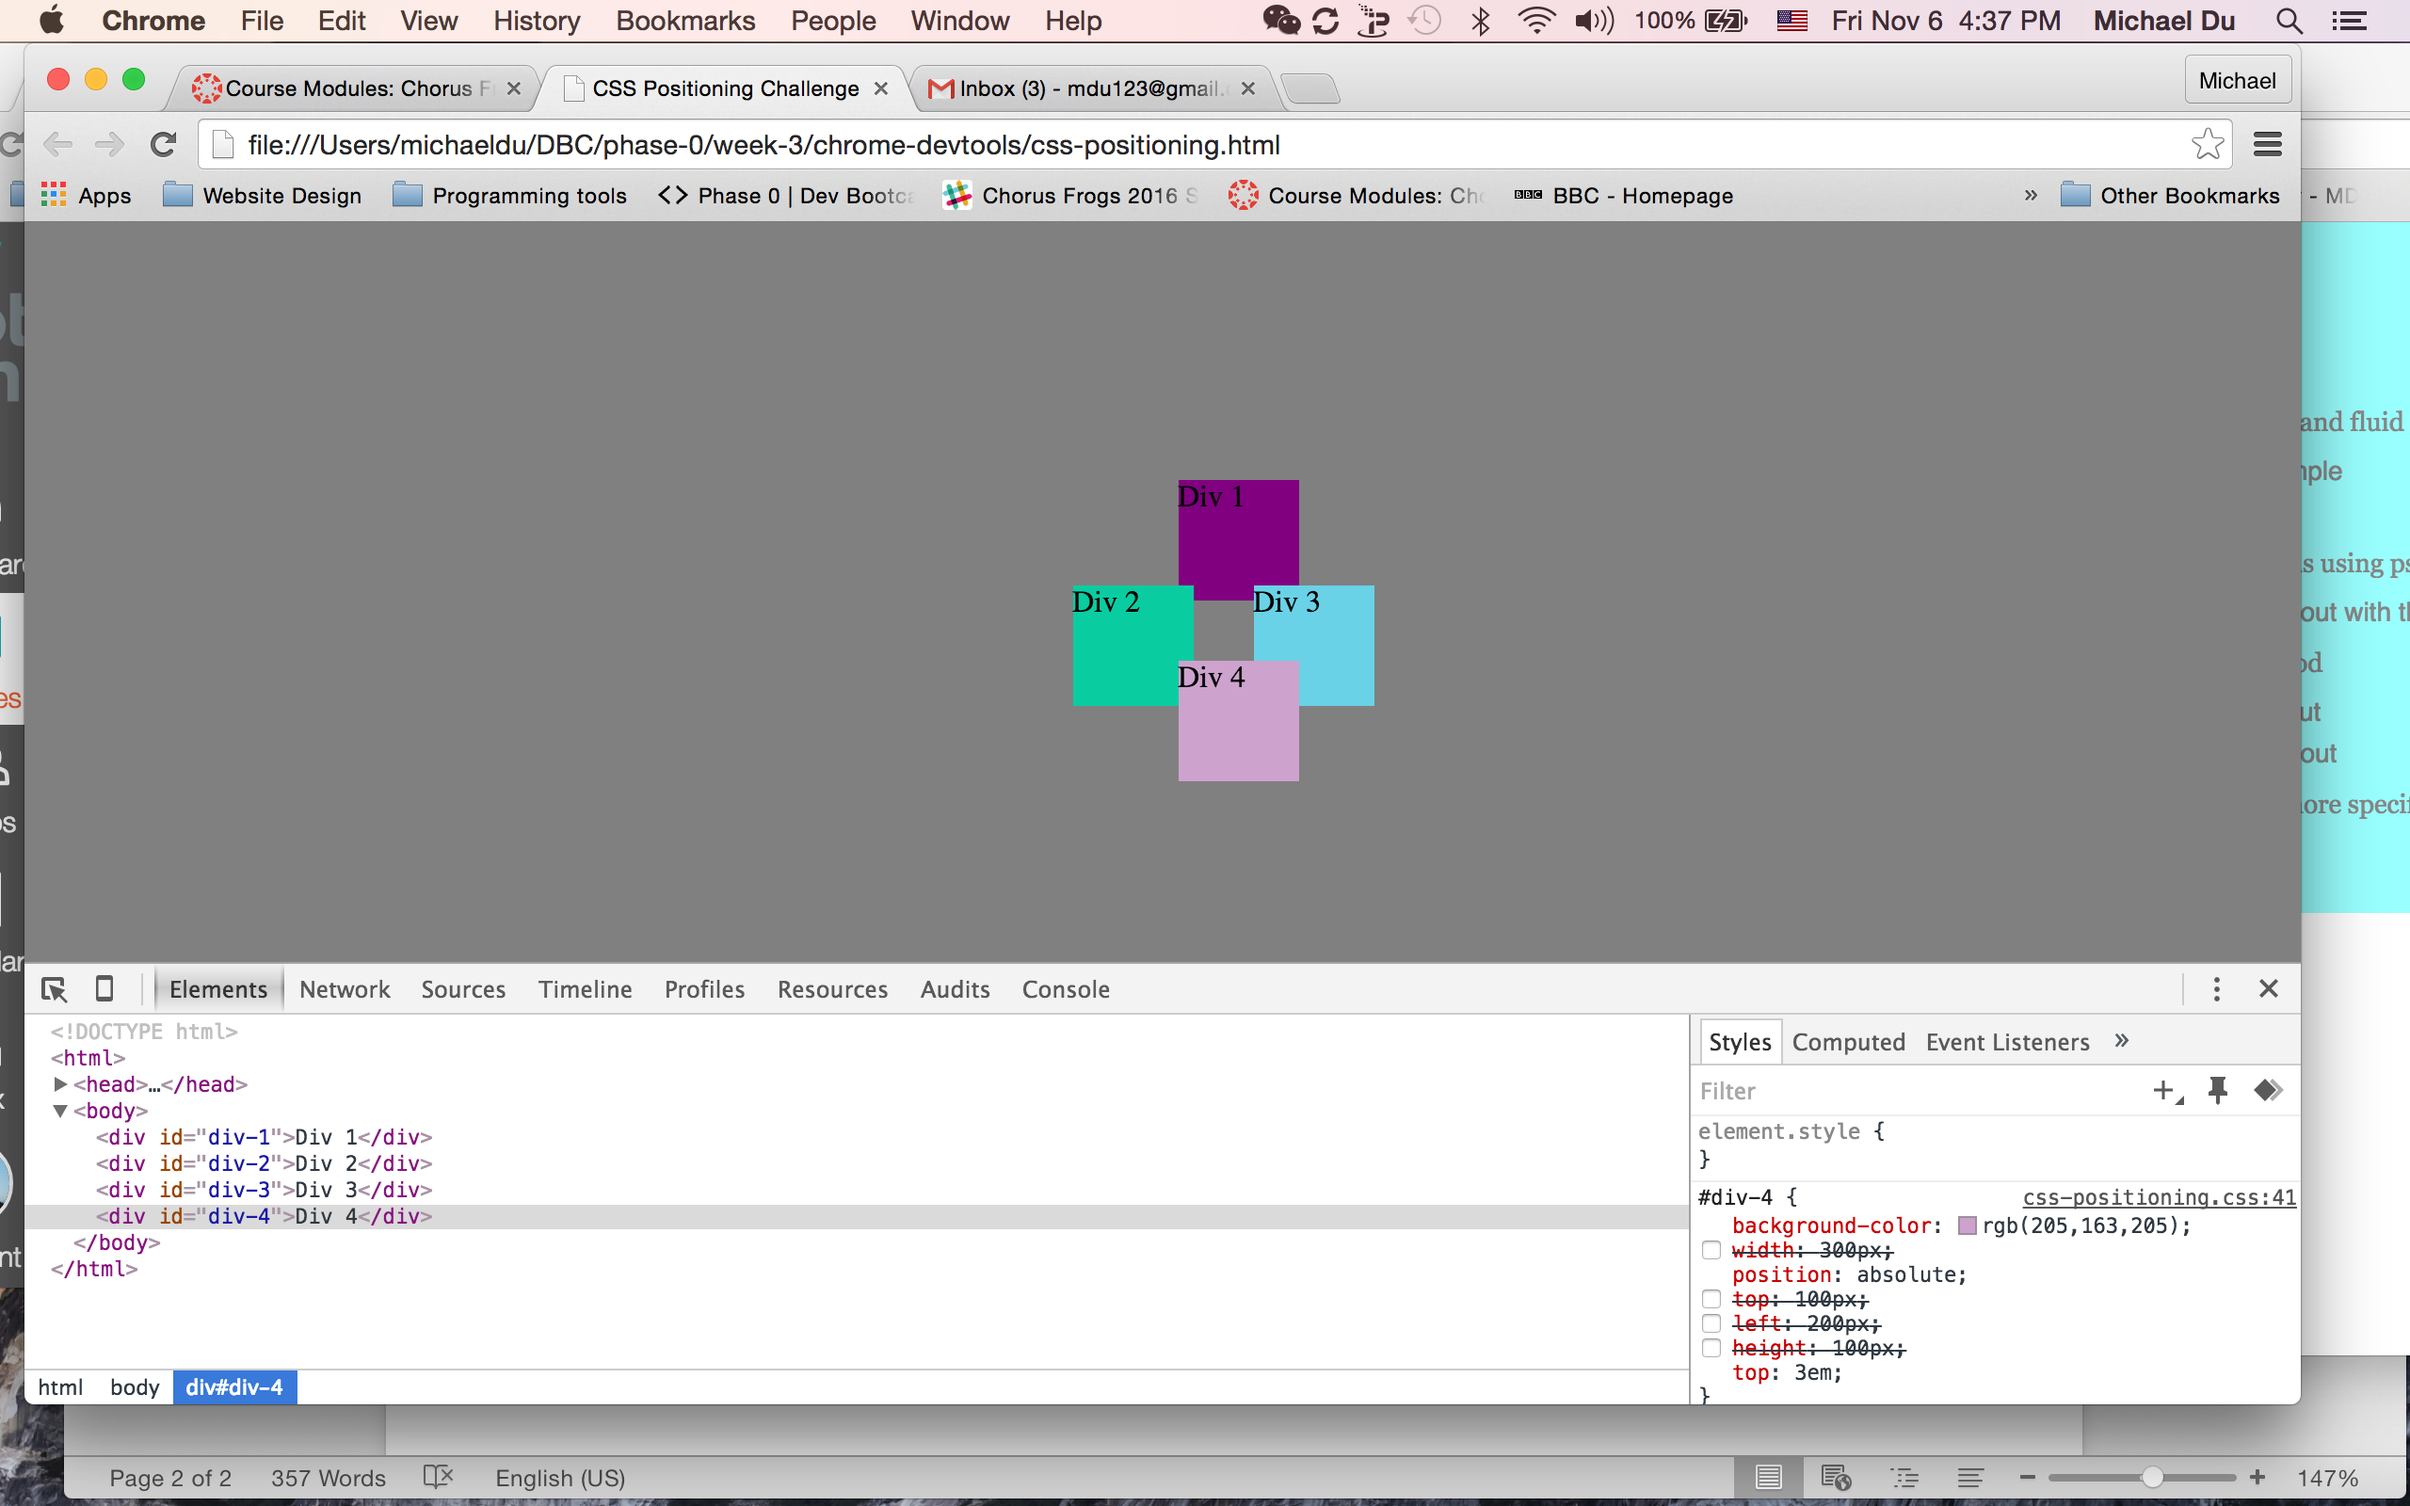
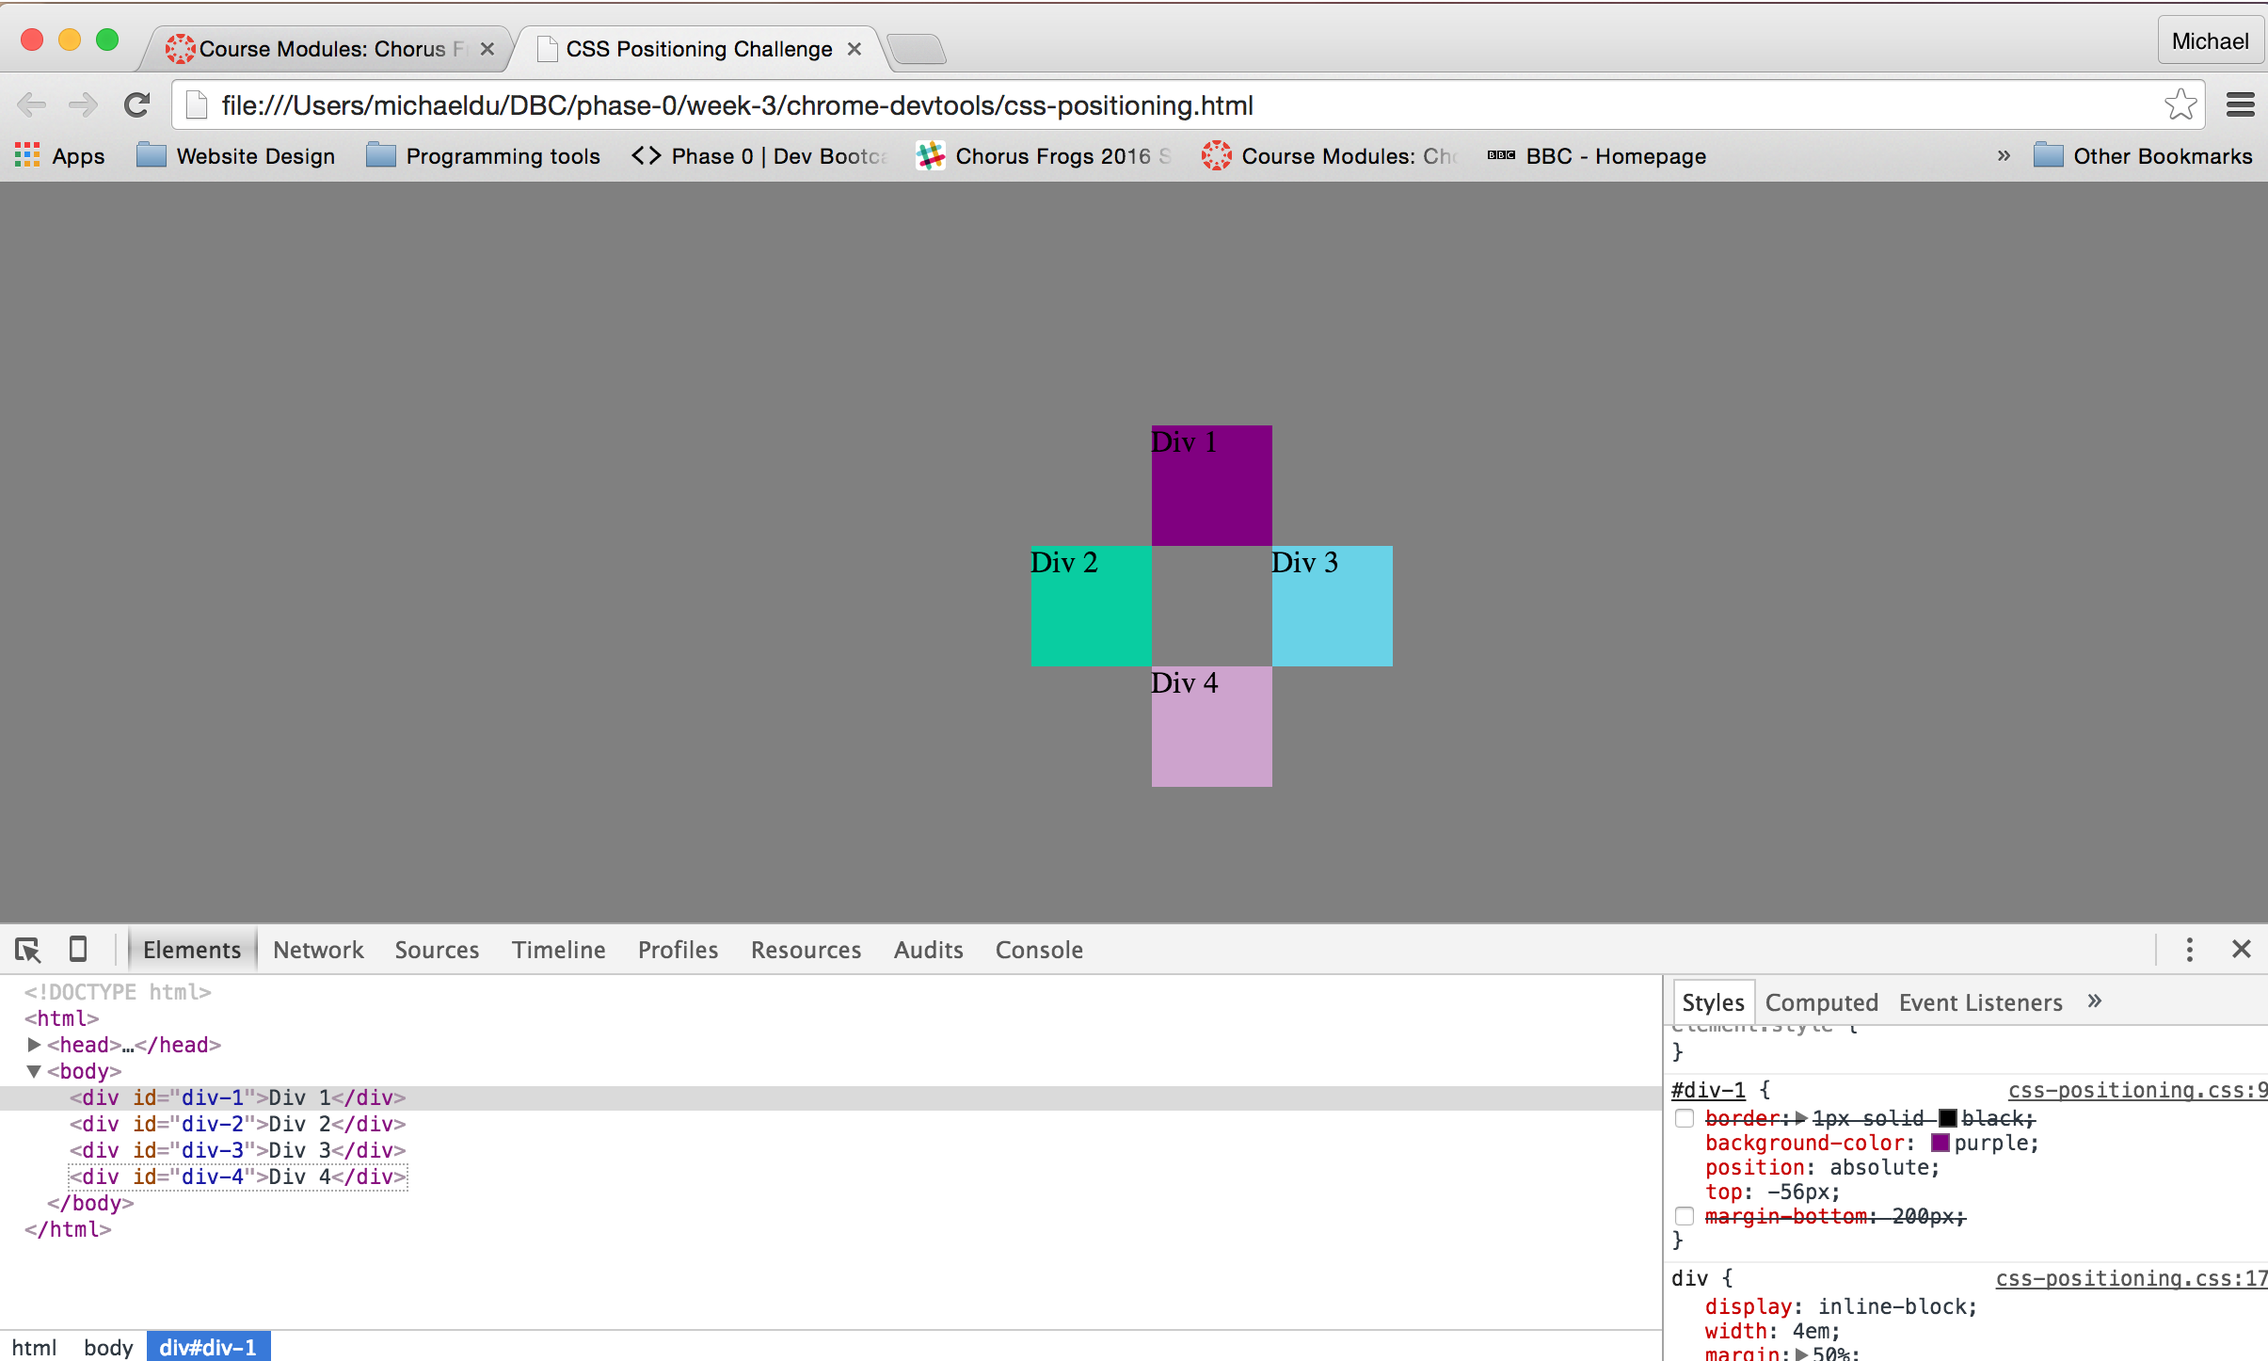
update chromedev assignment with reflection

Changed region(s): [[0.0, 0.0, 1.0, 1.0], [0.4357, 0.3112, 0.6224, 0.5913]]

diff --git a/week-3/chrome-devtools/positioning-reflection.md b/week-3/chrome-devtools/positioning-reflection.md
@@ -8,19 +8,25 @@
 ![8](imgs/8.png "8")
 ![9](imgs/9.png "9")
 
-####How can you use Chrome's DevTools inspector to help you format or position elements?
+#####How can you use Chrome's DevTools inspector to help you format or position elements?
+The DOM interface as part of Chrome's DevTools allow us to directly modify and add CSS attributes and values, allowing us to effectively gauge how the site will appear as each code is being changed.
 
+#####How can you resize elements on the DOM using CSS?
+By setting the height and width style attributes, we can manipulate blocks into whatever size we want.
 
-####How can you resize elements on the DOM using CSS?
+#####What are the differences between absolute, fixed, static, and relative positioning?
+Static is the default positioning, and which ignores the top, right, bottom, left positionining.
+Relative allows us to position the object relative to where it would have originally been in 'static'.
+Absolute is positioning relative to closest positioned ancestors, and are 'ignored' by other objects in positioning. This means objects can stack on top or below absolute objects.
+Fixed objects are similar to absolute in that they are also ignored by other objects in their positioning, but in addition to that, they also remain fixed on a specific location of the screen, even if it is scrolled. From my understanding, they work like Absolute positioning, except that they are permanently positioned relative to the HTML frame.
 
+#####Which did you find easiest to use? Which was most difficult?
+The easiest one to use is relative, because it allows us flexibility while being predictable (it's default position is the same as static). The most difficult one was absolute, because I couldn't get it to work properly with margins, and the divs were going all over the place.
 
-####What are the differences between absolute, fixed, static, and relative positioning?
+#####What are the differences between margin, border, and padding?
+Border is the line that wraps the object.
+Margin is the spacing you want an object to have in between other objects. (the space between borders of two objects)
+Padding is the spacing between the content of the object box (for example text) and the border of the box. This is the spacing within the object.
 
-
-####Which did you find easiest to use? Which was most difficult?
-
-
-####What are the differences between margin, border, and padding?
-
-
-####What was your impression of this challenge overall? (love, hate, and why?)
+#####What was your impression of this challenge overall? (love, hate, and why?)
+I won't go as far as to say I hate it, but right now, I get the feeling that CSS is not something I want to sit around doing for the rest of my life. It's great that I can create/work with basic layouts though, so I'm happy with that.
